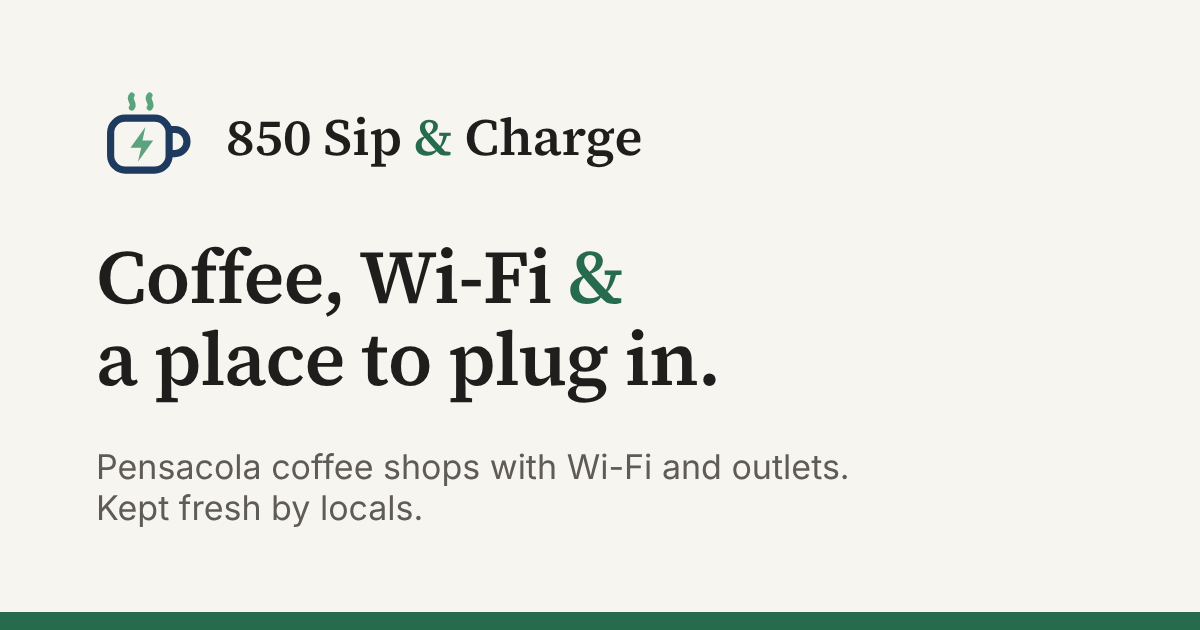
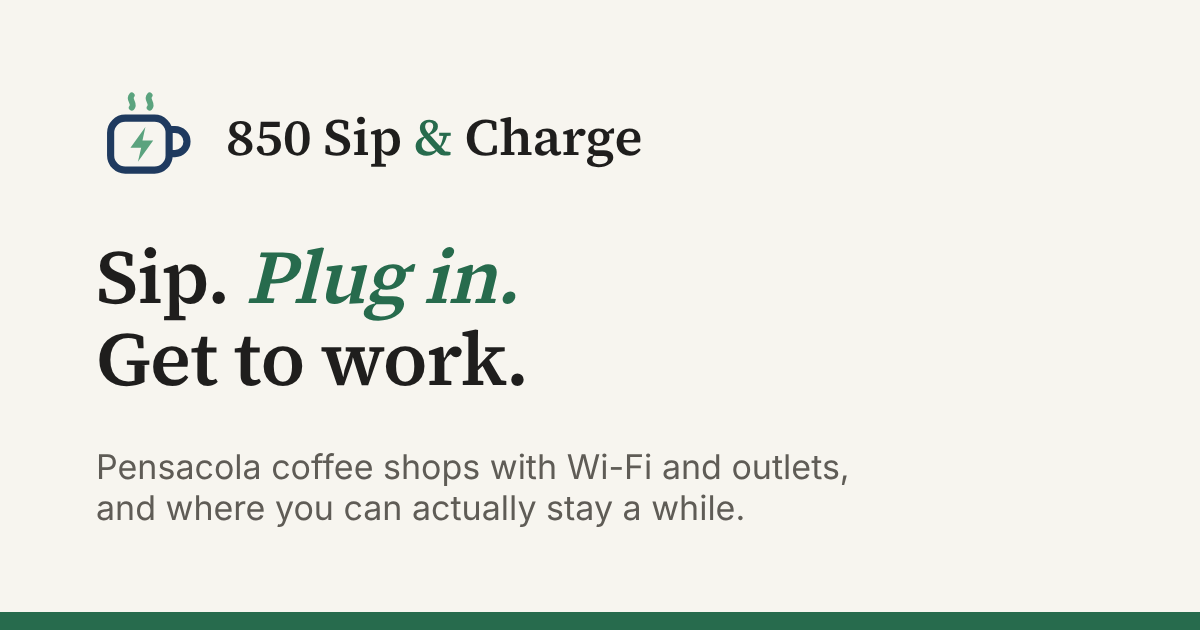
New headline, search-friendly titles, and a sitemap
- Headline "Sip. Plug in. Get to work." with the new subtitle; share
  image re-rendered to match.
- Home page <title> now leads with "Pensacola Coffee Shops with Wi-Fi &
  Outlets" instead of only the site name, which also names a mug warmer.
- Shop page titles say "Wi-Fi & Outlets" and chain locations include
  the street, so the Starbucks pages no longer share one title.
- Add sitemap.xml (31 URLs) to submit in Google Search Console.

Claude-Session: https://claude.ai/code/session_014N3x8hFBzrYvCaB8hA72tD

Changed region(s): [[0.0617, 0.5127, 0.6167, 0.6635], [0.0617, 0.3921, 0.5242, 0.5127], [0.0617, 0.7841, 0.6167, 0.8444]]

diff --git a/src/pages/sitemap.xml.ts b/src/pages/sitemap.xml.ts
@@ -1,0 +1,12 @@
+// Sitemap for search engines. Submit https://chungenyu6.github.io/pns-power-wifi-map/sitemap.xml
+// in Google Search Console so new shops get found.
+import type { APIRoute } from 'astro';
+import { getShops } from '../lib/shops';
+
+export const GET: APIRoute = async ({ site }) => {
+  const base = import.meta.env.BASE_URL.replace(/\/$/, '');
+  const paths = ['/', '/about/', '/add/', ...(await getShops()).map((s) => `/shops/${s.id}/`)];
+  const urls = paths.map((p) => `  <url><loc>${new URL(base + p, site)}</loc></url>`).join('\n');
+  const xml = `<?xml version="1.0" encoding="UTF-8"?>\n<urlset xmlns="http://www.sitemaps.org/schemas/sitemap/0.9">\n${urls}\n</urlset>\n`;
+  return new Response(xml, { headers: { 'Content-Type': 'application/xml' } });
+};
